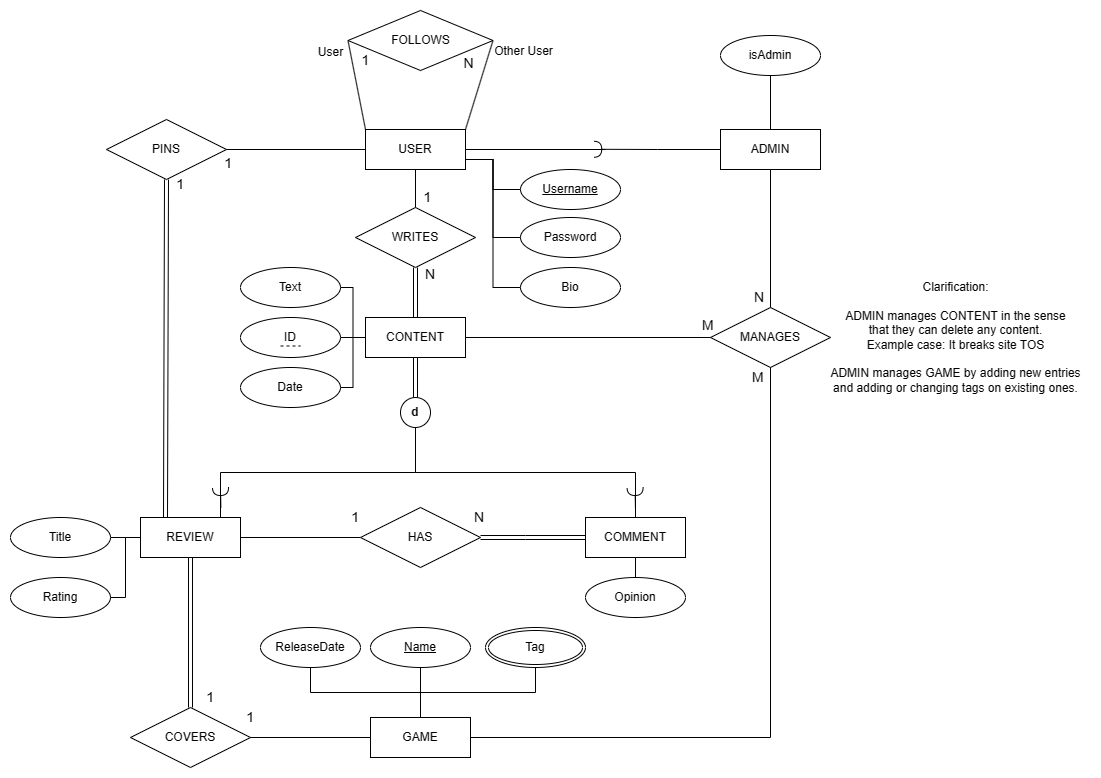
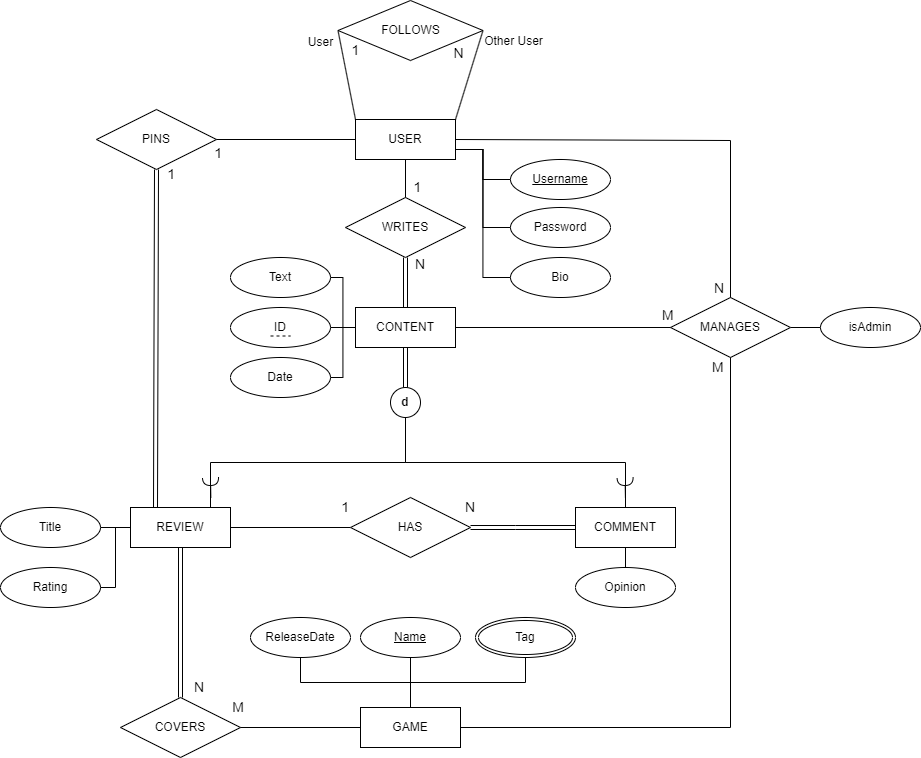
Update ER Diagram, Readme & added a new feature

diff --git a/server/controllers/reviews.js b/server/controllers/reviews.js
@@ -15,9 +15,22 @@ router.post('/', async function (req, res, next) {
     if (!req.isAuthenticated()) {
         return res.status(401).json({ "message": "You need to login to post comments" });
     }
-
-    var review = new Review(req.body);
     try {
+        let Game = require('../models/game');
+        var game = await Game.findById(req.body.game);
+        console.log(game); 
+
+        console.log(game.releaseDate);
+        console.log(Date.now());
+        if (game === null) {
+            return res.status(404).json({ "message": "Game not found" });
+        }
+
+        if (game.releaseDate > Date.now()) {
+            return res.status(400).json({ "message": "You can't review a game that hasn't been released yet" });
+        }
+
+        var review = new Review(req.body);
         // To ensure that date, isEdited and user are set correctly
         review.user = req.user._id;
         review.date = Date.now();

diff --git a/client/src/views/game/Game.vue b/client/src/views/game/Game.vue
@@ -38,6 +38,8 @@
               variant="success"
               v-on:click="createReview()"
               :hidden="!this.store.isAuthenticated"
+              :disabled="this.game.releaseDate > this.getCurrentDate()"
+              v-b-tooltip.hover title="This game has not been released yet!"
               >Add review</b-button
             >
             <b-button
@@ -98,7 +100,8 @@ export default {
       reviews: '',
       error: '',
       store: useUserStore(),
-      loading: true
+      loading: true,
+      currentDate: ''
     }
   },
   mounted() {
@@ -157,6 +160,13 @@ export default {
         name: 'edit-game',
         params: { name: this.game.name }
       })
+    },
+    getCurrentDate() {
+      const date = new Date()
+      const day = date.getDate()
+      const month = date.getMonth() + 1
+      const year = date.getFullYear()
+      return `${year}-${month}-${day}`
     }
   }
 }

diff --git a/docs/LOCAL_DEPLOYMENT.md b/docs/LOCAL_DEPLOYMENT.md
@@ -10,11 +10,11 @@ These steps describe how you can deploy your app locally in production mode if y
 
 > Make sure you have all dependencies installed for the server and client (using `npm install`).
 
-1. Change into the root directory `cd group-00-web`
+1. Change into the root directory `cd group-27-web`
 2. Set the environment variable `NODE_ENV` for the server:
     * macOS/Linux: `export NODE_ENV=production` (check with `echo $NODE_ENV`)
     * Windows: `set NODE_ENV "production"` (check with `echo %NODE_ENV%`)
-3. Set the environment variable `MONGODB_URI` for the server (change the database name "animals" according to your project):
+3. Set the environment variable `MONGODB_URI` for the server:
     * macOS/Linux: `export MONGODB_URI=mongodb://127.0.0.1:27017/gameReviewDB`
     * Windows: `set MONGODB_URI "mongodb://127.0.0.1:27017/gameReviewDB"`
 4. Set the environment variable `VUE_APP_API_ENDPOINT` for the client production build:
@@ -24,9 +24,9 @@ These steps describe how you can deploy your app locally in production mode if y
 6. Run the application with `npm run start --prefix server`
 
 ```none
-➜  group-00-web git:(master) ✗ npm run start --prefix server
+➜  group-27-web git:(master) ✗ npm run start --prefix server
 3:03:38 PM web.1 |  Express server listening on port 3000, in production mode
 3:03:38 PM web.1 |  Backend: http://127.0.0.1:3000/api/
 3:03:38 PM web.1 |  Frontend (production): http://127.0.0.1:3000/
-3:03:38 PM web.1 |  Connected to MongoDB with URI: mongodb://127.0.0.1:27017/animals-production
+3:03:38 PM web.1 |  Connected to MongoDB with URI: mongodb://127.0.0.1:27017/game-review
 ```

diff --git a/README.md b/README.md
@@ -1,8 +1,6 @@
 # Backend and Frontend Template
 
-Latest version: https://git.chalmers.se/courses/dit342/group-00-web
-
-This template refers to itself as `group-00-web`. In your project, use your group number in place of `00`.
+Latest version: https://git.chalmers.se/courses/dit342/group-27-web
 
 ## Project Structure
 
@@ -39,10 +37,10 @@ You can also use alternative tools if you know how to configure them (e.g., Fire
 
 ```bash
 # Clone repository
-git clone git@git.chalmers.se:courses/dit342/group-00-web.git
+git clone git@git.chalmers.se:courses/dit342/group-27-web.git
 
 # Change into the directory
-cd group-00-web
+cd group-27-web
 
 # Setup backend
 cd server && npm install
@@ -63,7 +61,7 @@ Open the `server` and `client` in separate VSCode workspaces or open the combine
 
 ### Purpose
 
-The system is a platform where the users can interact, discuss and particularly review games. Other users can comment and give their opinion whether they agree, feel neutral, or disagree with the review. There is an administrator role for certain users to moderate content and add new games to the website, which other users can then review.
+Questy is a platform where the users can interact with each other by particularly reviewing games and having discussions in the comment section. Users can comment and give their opinion whether they agree, disagree, or feel neutral with the review. There is an administrator role for certain users to moderate content on the website, which other users can then interact with.
 
 ### Pages
 
